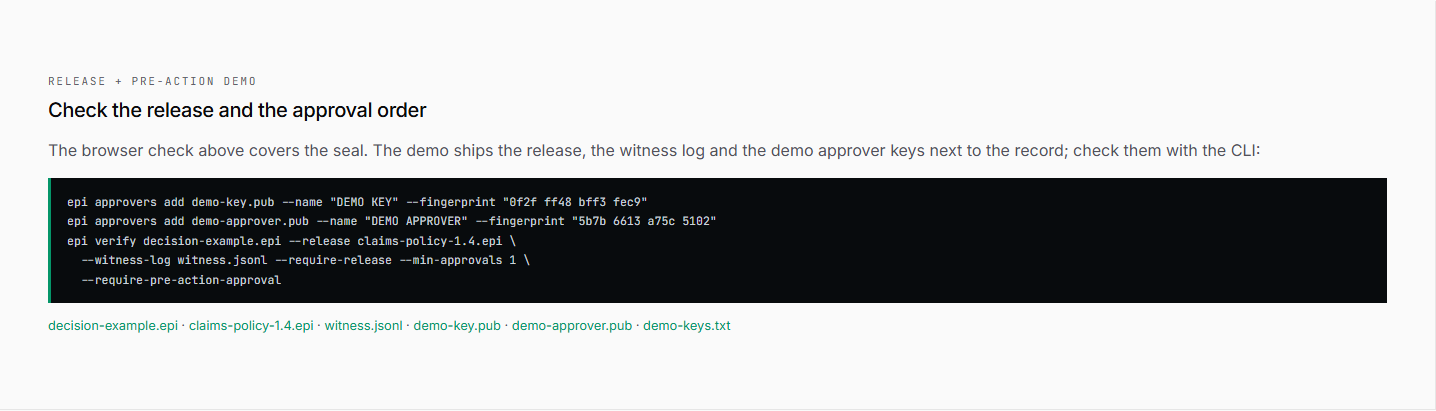
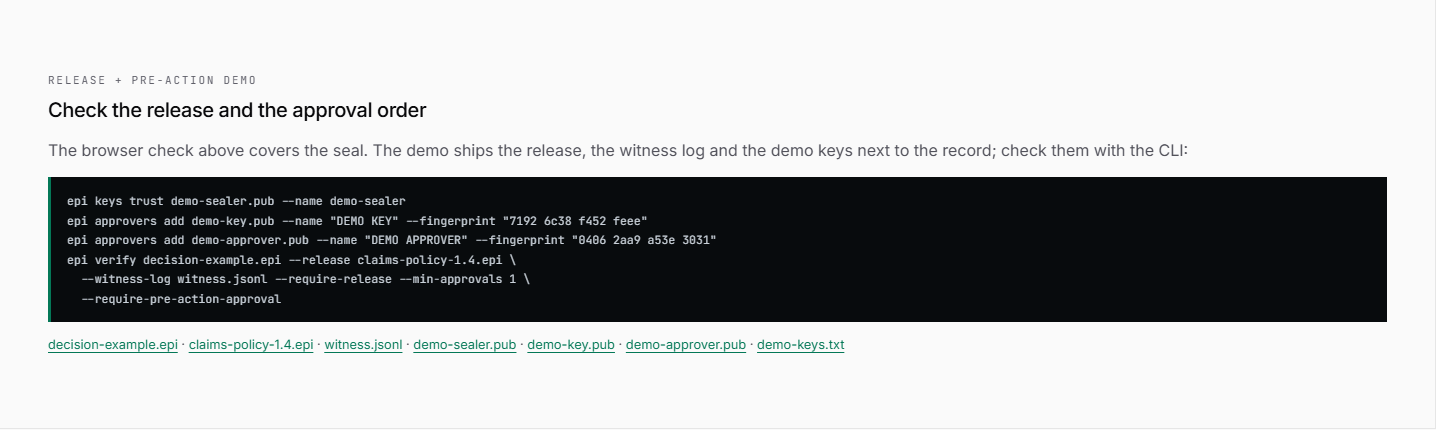
docs(qa): Round 4 - reviewer release bugs and demo panel refresh

diff --git a/docs/qa/PRELAUNCH-4.10.0.md b/docs/qa/PRELAUNCH-4.10.0.md
@@ -498,3 +498,78 @@ The Cloud service is a separate hosted codebase, **not this repository**. It sti
 - Delete test runs `art_5f9be6d229ecca1795eb9df3` and `art_29152f4cee6d031d02df1375`.
 - Disconnect this test computer's device key.
 - The anonymous share `923c97a432af3c715cd8ffe9` expires on its own 2026-11-10.
+
+---
+
+## Round 4 — reviewer-facing release bugs found in the Cloud re-test
+
+The Cloud re-test of `45864b8b` passed C7: the release was sealed as #3, Cloud accepted seals #1–#4, the customer audit was `#1..#4 — contiguous · clean` (exit 0), `epi cloud push` showed `Witness: witnessed`, and a 4.9.0 verifier still read the demo as `Integrity Verified · Signature Valid`.
+
+Reviewing the demo as a normal person then found two new bugs, now fixed in `9a3091d6`.
+
+### 1. Identical download copies made the release AMBIGUOUS
+
+A browser saves a second copy as `claims-policy-1.4 (1).epi`. The two files were byte-identical, but `epi verify` said “2 release artifacts have id …; refusing to pick one”.
+
+`resolve_release` now dedupes candidates by the signed `release_digest` (the release content) and skips identical copies. `AMBIGUOUS RELEASE` is reserved for the same id with **different** content. The CLI reports `ignored N identical copy(ies) of the release file`. Tests: `tests/test_release_reviewer_bugs.py`, and the updated `test_identical_release_copies_are_not_ambiguous` in `tests/test_release_records.py`.
+
+### 2. A valid but unpinned approval read as UNAPPROVED
+
+A release with a valid `DEMO KEY` approval, on a verifier that had not pinned that key, said `UNAPPROVED RELEASE · approved by 0/1`. The signature was valid; only the identity pin was missing.
+
+The release report now distinguishes:
+
+- `approvals.valid` — valid approval signatures found;
+- `approvals.have` — those whose keys are pinned;
+- `approver_not_pinned` — enough valid signatures, but not enough pinned. The line is `Release: claims-policy 1.4  APPROVER NOT PINNED`, with “approved by DEMO KEY - APPROVER NOT PINNED (0/1 pinned); pin with: epi approvers add <their-key-file> --name 'DEMO KEY'”.
+- `UNAPPROVED RELEASE` remains for a release with no valid approval signature.
+
+`tests/test_verify_wording.py` and `tests/test_release_reviewer_bugs.py` cover both paths.
+
+### 3. Release auto-discovery searched the whole tree
+
+Without `--release-dir`, the resolver recursively searched from the current directory. From the repo root it found four copies under `site/`, `epi-official/` and `verify_portal/`; in a large Downloads folder that is a slow, surprising search.
+
+Discovery now:
+
+- uses an explicit `--release`/`--release-dir` if given (the operator chose it);
+- otherwise searches **only the decision file’s own folder, non-recursively**;
+- prints `using release file next to the decision: claims-policy-1.4.epi`;
+- prints how many identical copies it ignored.
+
+`tests/test_release_reviewer_bugs.py::test_auto_discovery_is_next_to_the_decision_and_not_recursive` puts an identical copy in a nested folder and proves it is not scanned. A `--release-dir` still searches recursively by design.
+
+### 4. /verify demo panel refreshed
+
+The page’s demo fingerprints changed when the demo was re-sealed, and the panel did not pin the sealer, so its commands ended in an identity FAIL. The panel now reads:
+
+```
+epi keys trust demo-sealer.pub --name demo-sealer
+epi approvers add demo-key.pub --name "DEMO KEY" --fingerprint "7192 6c38 f452 feee"
+epi approvers add demo-approver.pub --name "DEMO APPROVER" --fingerprint "0406 2aa9 a53e 3031"
+epi verify decision-example.epi --release claims-policy-1.4.epi \
+  --witness-log witness.jsonl --require-release --min-approvals 1 \
+  --require-pre-action-approval
+```
+
+Run exactly as written in a fresh folder, this returns `DECISION: PASS`, `Release: claims-policy 1.4 MATCHES`, `Order: release before decision (basis: witness received_at)` and `Pre-action: APPROVED BEFORE ACTION (basis: witness received_at)`. The `demo-sealer.pub` link is on the page. Screenshot refreshed: `screens/verify-demo-desktop-light.png`.
+
+### /reviewers commands re-run
+
+Using the demo files as the stand-ins for `vendor.pub`, `approver.pub`, `case.epi` and `received.jsonl`, the page’s commands return `SIGNER PINNED`, `Human approval: VERIFIED`, and the new release wording `RELEASE DECLARED - NOT SUPPLIED` (the reviewer was not given the release file, so that is a warning, not a tamper finding). The DID command still needs a real `did:web` document; it is not runnable offline.
+
+### Test status
+
+- Focused suites: 99 passed (release/verify/pre-action/witness), plus 4 reviewer-bug tests and 3 wording tests.
+- Full suite on `9a3091d6`: result recorded below after the run.
+- CI on `9a3091d6`: result recorded below after the run.
+
+### Cloud service side
+
+The client fix means launch no longer depends on the Cloud update. Cloud users get correct seals and a clean audit now; heartbeat/release/approval *detail* still waits for the hosted service to accept the extra report types (fix plan item 2). The status line says exactly what the receiver accepts.
+
+### Cleanup still to do in the Cloud dashboard
+
+- Delete test runs `art_5f9be6d229ecca1795eb9df3`, `art_29152f4cee6d031d02df1375` and `art_0141e7d256024abba641164a`.
+- Disconnect the test computer’s device key when re-testing is no longer needed.
+- The anonymous share expires on its own on 2026-11-10.
